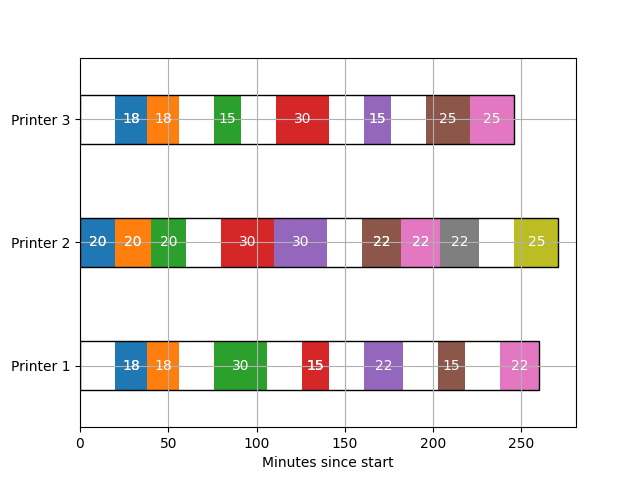
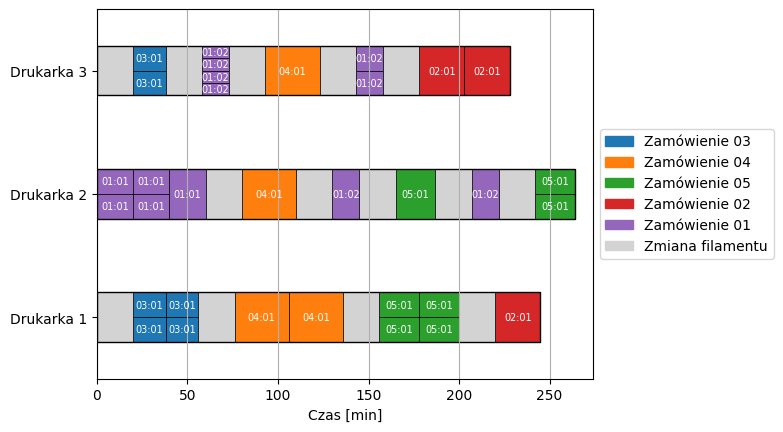
add task ids to the graph

diff --git a/src/utils/generate_graph.py b/src/utils/generate_graph.py
@@ -2,13 +2,17 @@ import json
 import matplotlib.pyplot as plt
 import matplotlib.colors as mcolors
 import os
-from matplotlib.patches import Rectangle
+from matplotlib.patches import Rectangle, Patch
 
 def plot_schedule_from_files(directory, output_file):
+    plt.figure(figsize=(24, 16))
     fig, ax = plt.subplots()
     colors = list(mcolors.TABLEAU_COLORS.values())
     machine = 1
     bar_height = 0.4
+
+    order_color_map = {}  # Dictionary to map order numbers to colors
+    color_index = 0  # Index to cycle through colors
 
     machine_schedules = []
     # Iterate over all JSON files in the directory
@@ -22,35 +26,59 @@ def plot_schedule_from_files(directory, output_file):
             for index, item in enumerate(data['schedule']):
                 start = item['start']
                 stop = item['stop']
-                color = colors[index % len(colors)]  # Cycle through the list of colors
-                ax.broken_barh([(start, stop-start)], (machine-bar_height/2, bar_height), facecolors=color)
+                num_tasks = len(item['tasks'])
+                task_height = bar_height / num_tasks if num_tasks > 0 else bar_height
+
+                for task_index, task in enumerate(item['tasks']):
+                    y_pos = machine - bar_height / 2 + task_index * task_height
+                    order_number = task['orderNumber']
+                    task_number = task['taskId']
+
+                    # Assign color based on order number
+                    if order_number not in order_color_map:
+                        order_color_map[order_number] = colors[color_index % len(colors)]
+                        color_index += 1
+                    color = order_color_map[order_number]
+
+                    ax.broken_barh([(start, stop-start)], (y_pos, task_height), facecolors=color, edgecolors='black', linewidth=0.5)
+                    ax.text((start + stop) / 2, y_pos + task_height / 2, f'{order_number}:{task_number}', ha='center', va='center', color='white', fontsize='x-small')
 
                 machine_schedule.append((start, stop))
-
-                # Annotate the tasks
-                for task in item['tasks']:
-                    ax.text((start + stop) / 2, machine, stop-start, ha='center', va='center', color='white')
 
             machine_schedules.append((machine, machine_schedule))
             machine += 1
 
     ax.set_ylim(0.5, machine - 0.5)
     ax.set_xlim(0, max(item['stop'] for data in [json.load(open(os.path.join(directory, f))) for f in os.listdir(directory) if f.endswith('.json')] for item in data['schedule']) + 10)
-    ax.set_xlabel('Minutes since start')
+    ax.set_xlabel('Czas [min]')
     ax.set_yticks(range(1, machine))
-    ax.set_yticklabels([f'Printer {i}' for i in range(1, machine)])
-    ax.grid(True)
+    ax.set_yticklabels([f'Drukarka {i}' for i in range(1, machine)])
+    ax.grid(True, axis='x')  # Only vertical grid lines
+
+    # Fill gaps with light grey color
+    for machine, schedule in machine_schedules:
+        prev_stop = 0
+        for start, stop in schedule:
+            if start > prev_stop:
+                ax.broken_barh([(prev_stop, start-prev_stop)], (machine-bar_height/2, bar_height), facecolors='lightgrey', edgecolor='black', linewidth=0.5)
+            prev_stop = stop
 
     # Add black border around each machine's schedule
     for machine, schedule in machine_schedules:
         end_times = [s[1] for s in schedule]
         start = 0
         end = max(end_times)
-        rect = Rectangle((start, machine - bar_height/2), end - start, bar_height, fill=False, edgecolor='black', linewidth=1)
+        rect = Rectangle((start, machine - bar_height / 2), end - start, bar_height, fill=False, edgecolor='black', linewidth=1)
         ax.add_patch(rect)
 
+    # Add legend
+    handles = [Patch(color=color, label=f'Zamówienie {order}') for order, color in order_color_map.items()]
+    filament_patch = Patch(color='lightgrey', label='Zmiana filamentu')
+    handles.append(filament_patch)
+    ax.legend(handles=handles, loc='center left', bbox_to_anchor=(1, 0.5))
+
     # Save the plot to a file
-    plt.savefig(output_file)
+    plt.savefig(output_file, bbox_inches='tight')
     plt.close()
 
 # Directory containing the JSON files
